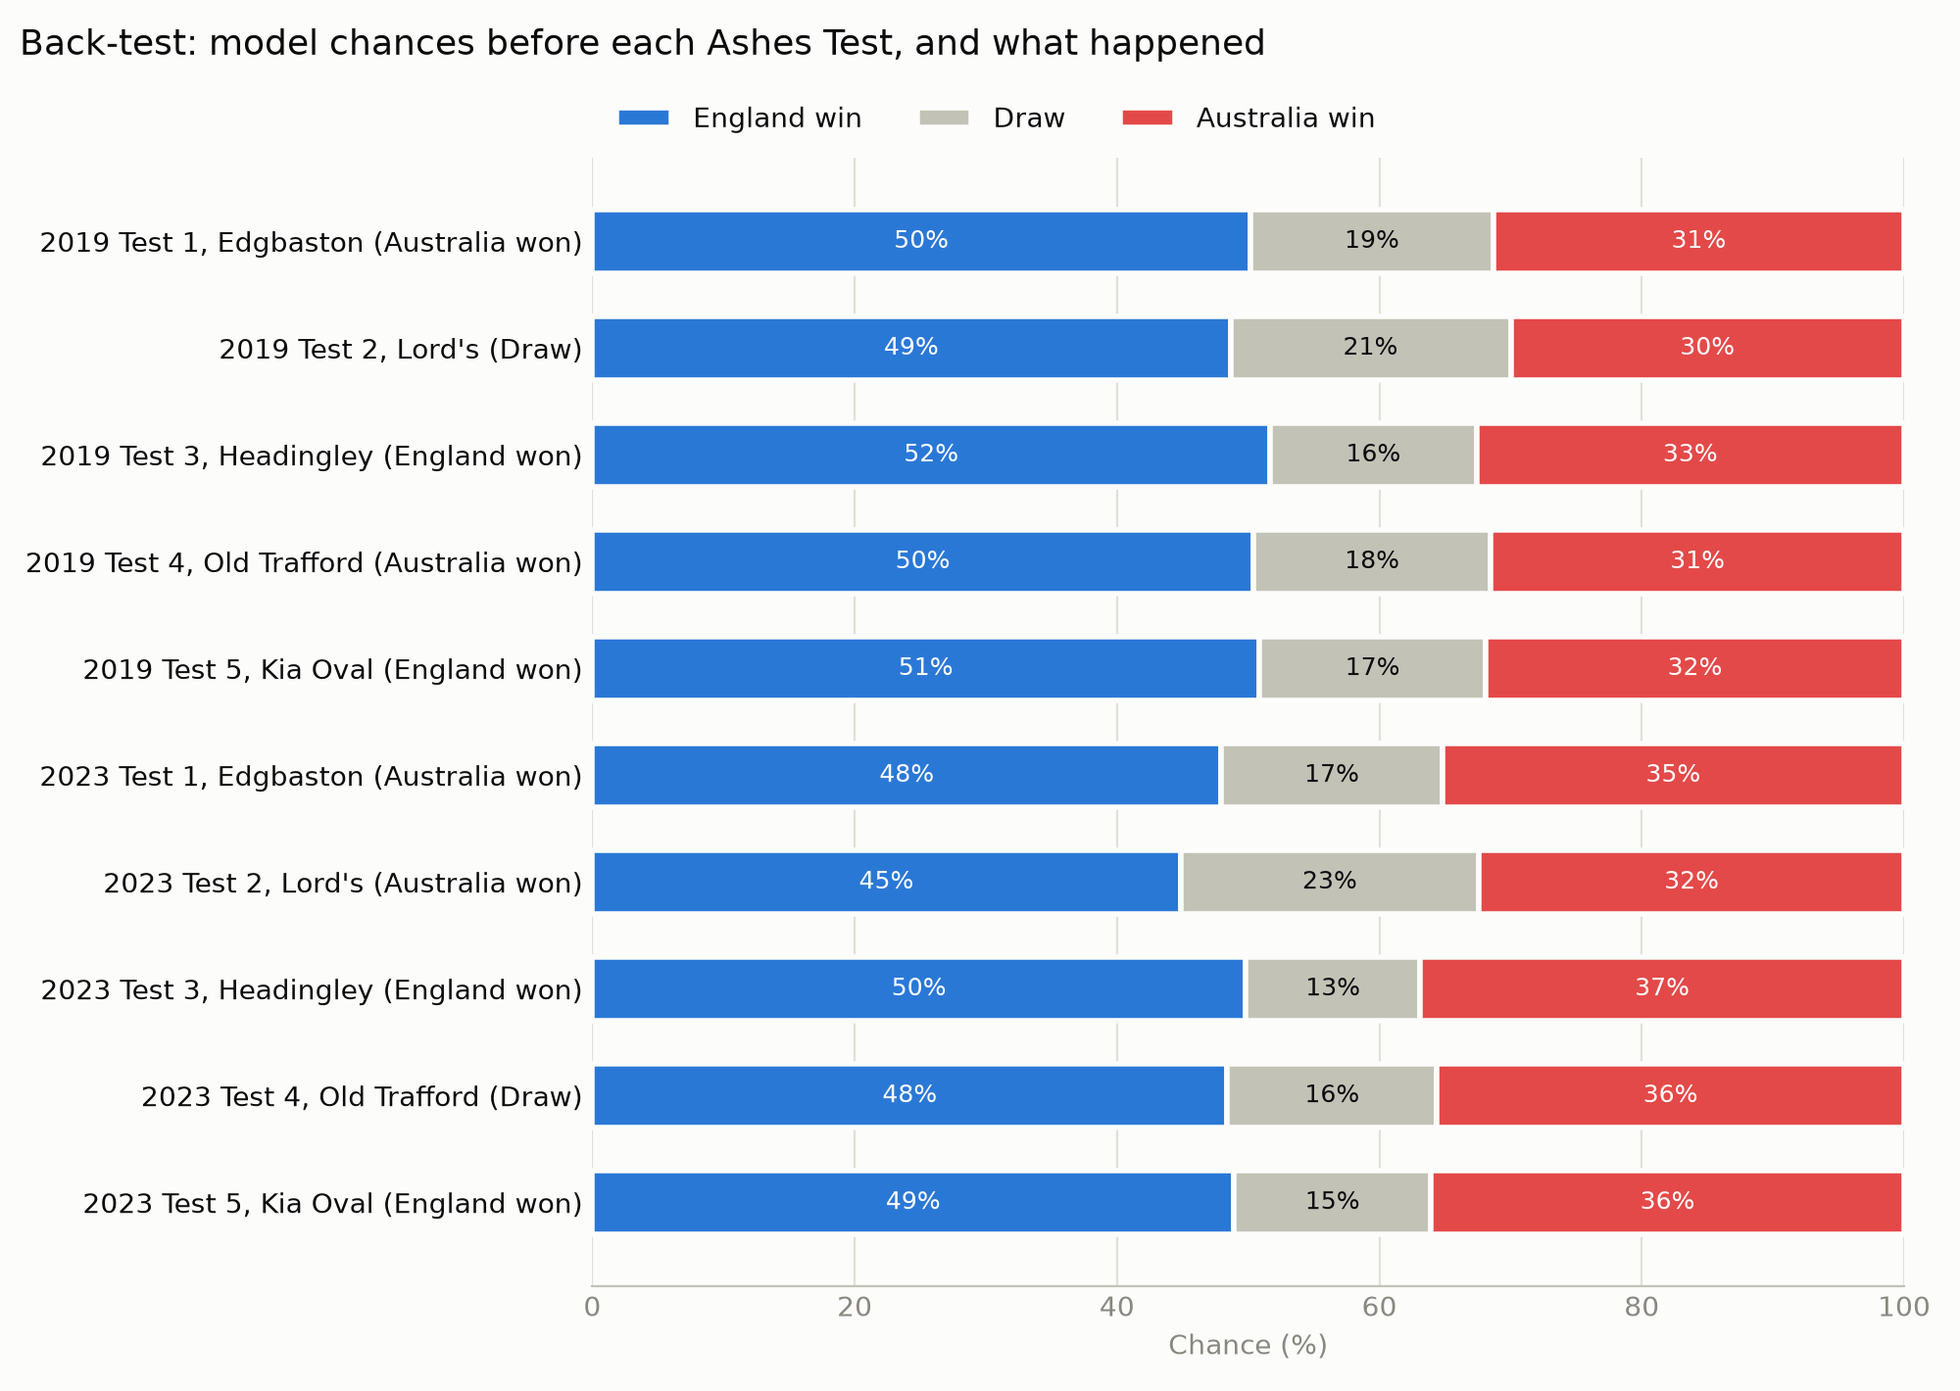
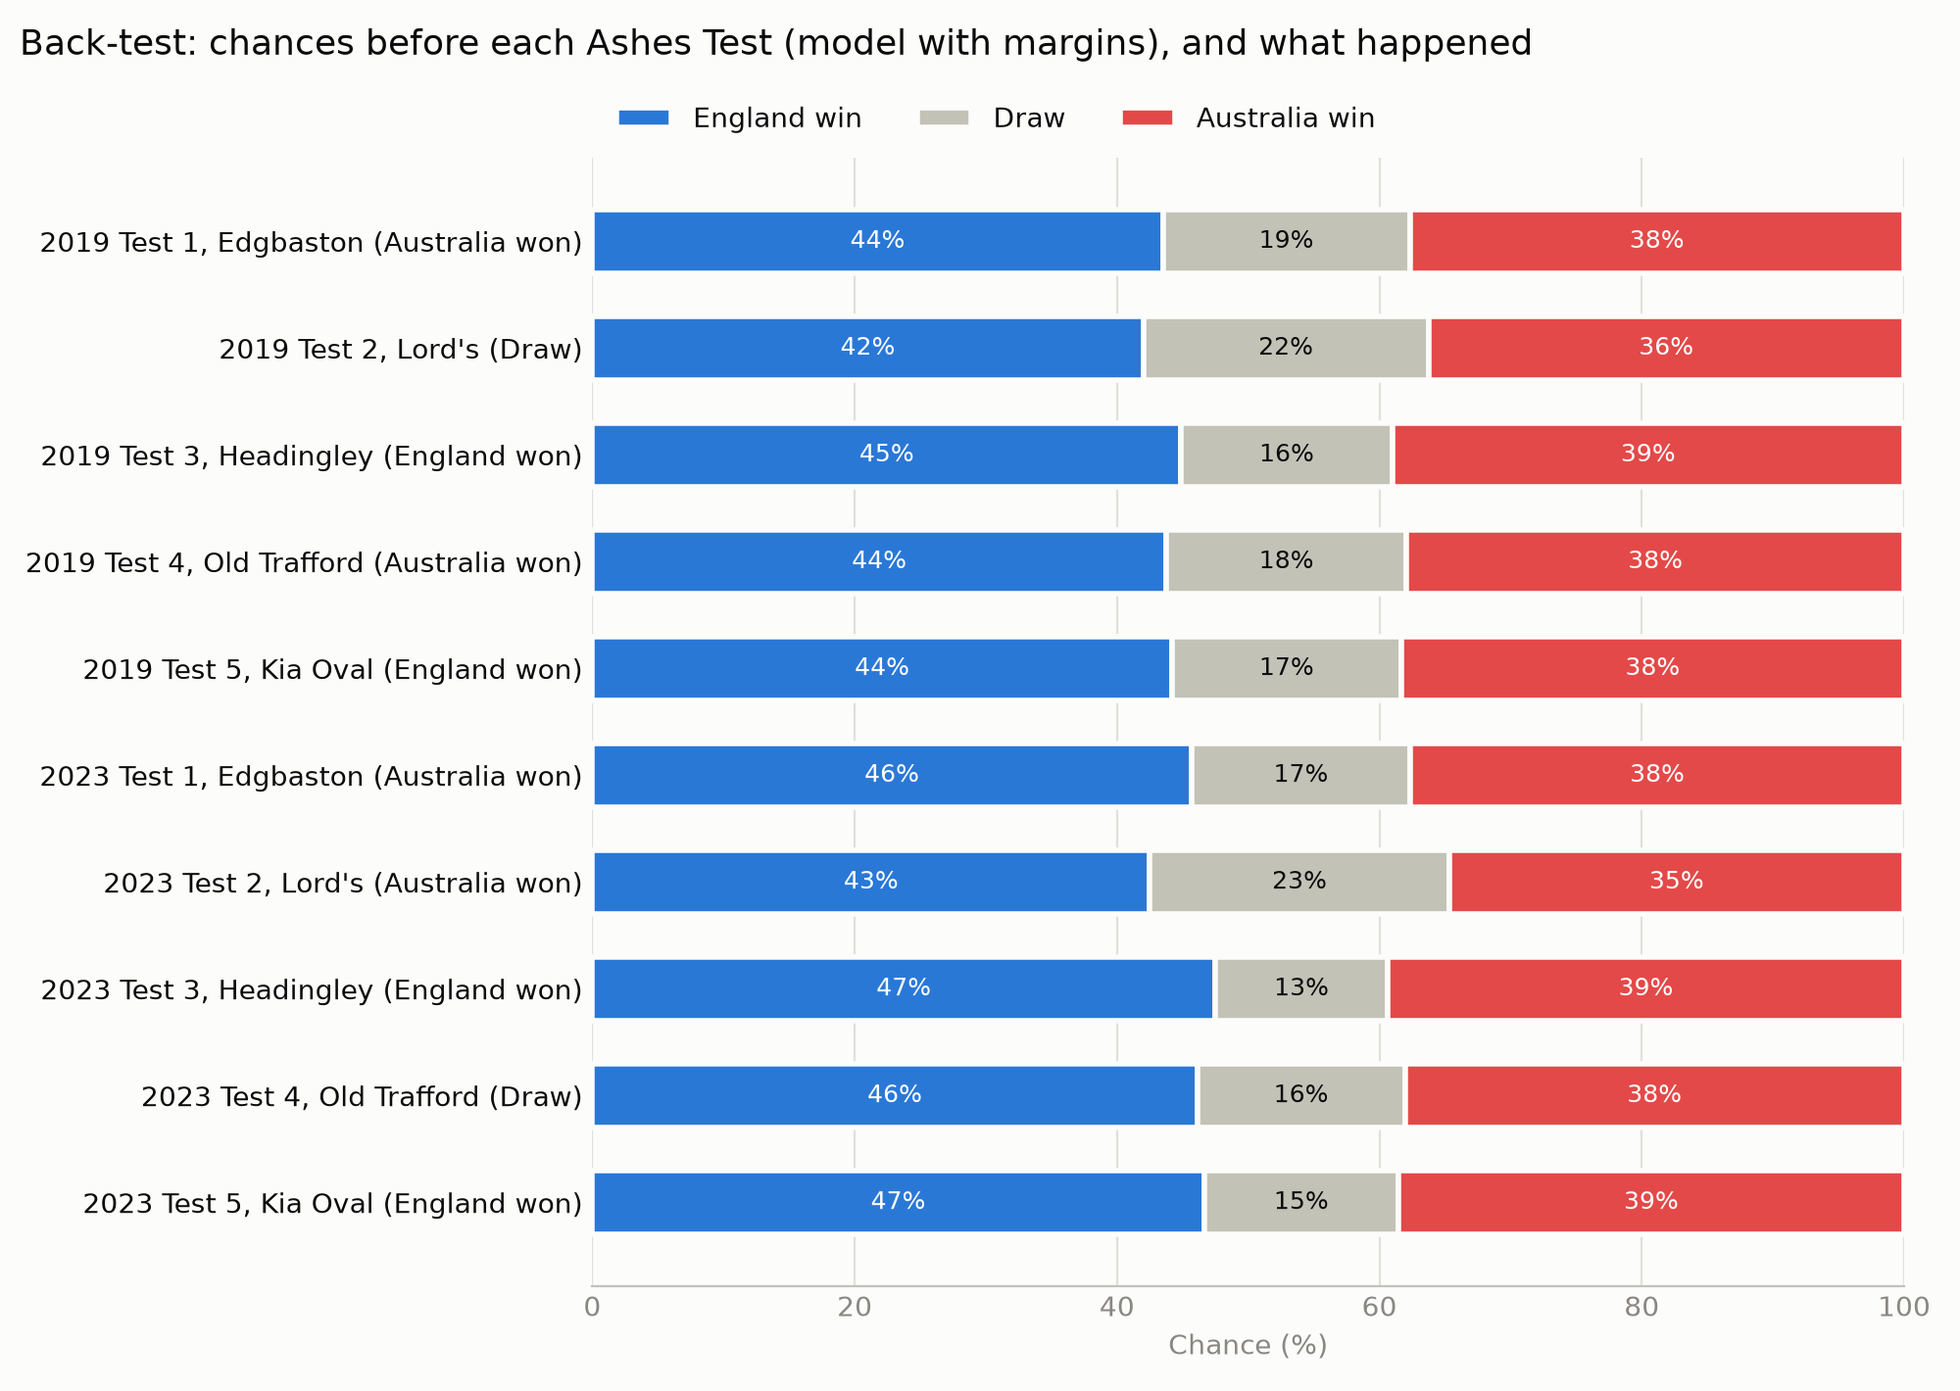
Add winning margins to the model, with innings wins counted fully

diff --git a/tests/test_28_margins.py b/tests/test_28_margins.py
@@ -18,18 +18,21 @@ def test_runs_per_wicket():
 
 
 def test_margin_in_wickets_converts_runs_and_keeps_wickets():
-    matches = pd.DataFrame({"margin_runs": [100.0, None, None], "margin_wkts": [None, 6.0, None]})
+    matches = pd.DataFrame({"margin_runs": [100.0, None, 50.0, None],
+                            "margin_wkts": [None, 6.0, None, None],
+                            "margin_innings": [None, None, 1.0, None]})
     result = margin_in_wickets(matches, rpw=25)
     assert result.iloc[0] == 4          # 100 runs at 25 runs per wicket
     assert result.iloc[1] == 6          # 6 wickets stays 6
-    assert np.isnan(result.iloc[2])     # a draw has no margin
+    assert result.iloc[2] == 12         # an innings and 50 runs: 2 wickets, plus 10 for the unused innings
+    assert np.isnan(result.iloc[3])     # a draw has no margin
 
 
 def test_model_table_adds_log_margin_only_when_asked(raw_dir):
     matches = ingest_folder(raw_dir)["matches"]
     assert "margin" not in build_model_table(matches, ALIASES).columns
     table = build_model_table(matches, ALIASES, rpw=6.0).set_index("match_id")
-    assert table.loc["3001", "margin"] == pytest.approx(np.log1p(12 / 6))   # innings and 12 runs = 2 wickets
+    assert table.loc["3001", "margin"] == pytest.approx(np.log1p(12 / 6 + 10))   # innings and 12 runs
     assert table.loc["3002", "margin"] == pytest.approx(np.log1p(9))        # won by 9 wickets
     assert np.isnan(table.loc["3003", "margin"])                             # draw
 
@@ -40,7 +43,7 @@ def test_model_data_records_each_win_and_who_won(raw_dir):
     # Tests in date order: 3001 England (team1) won, 3002 Australia (team2) won, 3003 drawn.
     assert data.margin_idx.tolist() == [0, 1]
     assert data.margin_sign.tolist() == [1.0, -1.0]
-    np.testing.assert_allclose(data.margin, [np.log1p(2), np.log1p(9)])
+    np.testing.assert_allclose(data.margin, [np.log1p(12), np.log1p(9)])
 
 
 def test_model_data_without_margins_has_none(raw_dir):

diff --git a/src/cricket/model_data.py b/src/cricket/model_data.py
@@ -29,8 +29,12 @@ def runs_per_wicket(innings):
 
 
 def margin_in_wickets(matches, rpw):
-    """Every win's margin in wickets: the wickets in hand, or the runs margin divided by runs per wicket."""
-    return (matches["margin_runs"] / rpw).fillna(matches["margin_wkts"])
+    """Every win's margin in wickets: the wickets in hand, or the runs margin divided by runs per wicket.
+
+    An innings win adds 10 wickets to its runs margin: the winner never needed its second innings.
+    """
+    innings_bonus = np.where(matches["margin_innings"].fillna(0) > 0, 10, 0)
+    return (matches["margin_runs"] / rpw + innings_bonus).fillna(matches["margin_wkts"])
 
 
 def build_model_table(matches, aliases, rpw=None):

diff --git a/README.md b/README.md
@@ -10,20 +10,20 @@ through to every series result.
 
 | Test | Ground | Dates | England win | Draw | Australia win |
 | --- | --- | --- | --- | --- | --- |
-| 1 | Trent Bridge | 18–22 June | 47% | 10% | 43% |
-| 2 | Lord's | 30 June–4 July | 44% | 15% | 40% |
-| 3 | Edgbaston | 8–12 July | 46% | 11% | 42% |
-| 4 | Utilita Bowl | 21–25 July | 44% | 16% | 40% |
-| 5 | Kia Oval | 29 July–2 August | 47% | 10% | 43% |
+| 1 | Trent Bridge | 18–22 June | 46% | 10% | 44% |
+| 2 | Lord's | 30 June–4 July | 43% | 15% | 41% |
+| 3 | Edgbaston | 8–12 July | 46% | 11% | 44% |
+| 4 | Utilita Bowl | 21–25 July | 43% | 15% | 41% |
+| 5 | Kia Oval | 29 July–2 August | 46% | 10% | 44% |
 
 | Series | England win | Drawn series | Australia win | Australia retain the urn |
 | --- | --- | --- | --- | --- |
-| Model | 47% | 13% | 40% | 53% |
-| Model, if the Tests were independent | 47% | 14% | 39% | 53% |
+| Model | 45% | 13% | 42% | 55% |
+| Model, if the Tests were independent | 45% | 14% | 41% | 55% |
 | My own forecast, written before any modelling | 42% | 16% | 42% | 58% |
 
-England are slight favourites at home because the model's home advantage (0.63) is a little larger than the gap
-between the teams (Australia 1.33, England 0.78 on the model's scale).
+England are slight favourites at home because the model's home advantage (0.62) is a little larger than the gap
+between the teams (Australia 1.35, England 0.77 on the model's scale).
 
 ## The question and the approach
 
@@ -33,8 +33,9 @@ between the teams (Australia 1.33, England 0.78 on the model's scale).
    deliveries. It holds for all 729 wins with a recorded margin.
 3. **Profile the five grounds** from their history: draw rates, first-innings scores, overs bowled, the toss and how
    batters were dismissed.
-4. **Fit a Bayesian model** in PyMC with Hamiltonian Monte Carlo (NUTS).
-5. **Back-test it** on the 2019 and 2023 Ashes, using only Tests played before each series.
+4. **Fit a Bayesian model** in PyMC with Hamiltonian Monte Carlo (NUTS), learning from both the result and the
+   winning margin of every Test.
+5. **Back-test it** on the 2019 and 2023 Ashes, using only Tests played before each series, with and without margins.
 6. **Forecast each 2027 Test and the series**, and compare with a forecast written down before any modelling.
 
 ## The model
@@ -48,20 +49,26 @@ $$P(\text{A loses}) = \sigma\left(-\tfrac{w}{2} - \eta\right), \qquad P(\text{A 
 
 $$\log w = \beta_0 + v_{\text{venue}} + \tau \cdot \frac{\text{year} - 2019}{10}$$
 
+For every win, the size of the win $m$ (in wickets) also depends on the winner's edge $\eta_{\text{winner}}$, through
+a normal distribution cut off at 0:
+
+$$\log(1 + m) \sim \text{Normal}^{+}\left(\mu_0 + \lambda \cdot \eta_{\text{winner}},\ \sigma_m\right)$$
+
 | Part | Choice |
 | --- | --- |
 | Team strength $s_{T,t}$ | A yearly random walk for each of 11 teams, centred each year so 0 is an average Test side |
 | Home advantage $h$ | One value for all teams. The home side is inferred from the data: the team playing at least 80% of the Tests at a place |
 | Draw band | A base width, a trend per decade since 2019, and a venue effect for each of 103 venues, partially pooled |
+| Winning margin $m$ | Wickets in hand, or runs divided by the average runs per wicket (32.6). An innings win adds 10 wickets. |
 | Parameterisation | Non-centred, for the random walk and the venue effects |
-| Data | 898 Tests from 2001 to 2026 (the one-off ICC World XI Test is excluded) |
+| Data | 898 Tests from 2001 to 2026, 728 of them wins with a recorded margin (the one-off ICC World XI Test is excluded) |
 
 ## Does the fit work?
 
 | Check | Result | Target |
 | --- | --- | --- |
-| Worst R-hat | 1.002 | below 1.01 |
-| Smallest effective sample size | 718 | above 400 |
+| Worst R-hat | 1.006 | below 1.01 |
+| Smallest effective sample size | 1,001 | above 400 |
 | Divergences | 0 | 0 |
 
 Four chains of 1,000 warm-up and 1,000 kept draws, with a target acceptance of 0.95. R-hat and effective sample size are
@@ -70,16 +77,18 @@ answers. Full results are in [`figures/sampler_checks.csv`](figures/sampler_chec
 
 ## How good is it?
 
-I tested the model on the 2019 and 2023 Ashes, fitting it only on Tests played before each series began.
+I tested two versions of the model on the 2019 and 2023 Ashes, fitting each only on Tests played before the series
+began: one that sees only results, and one that also sees winning margins.
 
-| Average per Test (lower is better) | Model | Past results | Equal thirds |
-| --- | --- | --- | --- |
-| Log loss | 1.06 | 1.10 | 1.10 |
-| Brier score | 0.65 | 0.67 | 0.67 |
+| Average per Test (lower is better) | With margins | Results only | Past results | Equal thirds |
+| --- | --- | --- | --- | --- |
+| Log loss | 1.048 | 1.061 | 1.097 | 1.099 |
+| Brier score | 0.637 | 0.647 | 0.670 | 0.667 |
 
-The model beat both simple forecasts in both series, but by a small margin over only ten Tests. It favoured
-England in every Test, and both series finished 2-2. Details are in
-[`figures/backtest_tests.csv`](figures/backtest_tests.csv) and [`DECISIONS.md`](DECISIONS.md).
+The version with margins did best in both series. Before the 2019 and 2023 Ashes it gave England about an even chance of
+winning the series (48% and 50%), where the results-only version gave 60% and 54%; both series finished 2-2. Ten
+Tests is still a small sample. Details are in [`figures/backtest_tests.csv`](figures/backtest_tests.csv) and
+[`DECISIONS.md`](DECISIONS.md).
 
 ![Back-test: model chances before each Ashes Test, and what happened](figures/backtest.png)
 
@@ -87,17 +96,23 @@ England in every Test, and both series finished 2-2. Details are in
 
 | Parameter | Mean | 90% interval |
 | --- | --- | --- |
-| Home advantage | 0.63 | 0.51 to 0.75 |
-| Draw trend per decade | −0.52 | −0.71 to −0.34 |
-| Australia strength, 2026 | 1.33 | 0.94 to 1.76 |
-| England strength, 2026 | 0.78 | 0.40 to 1.16 |
+| Home advantage | 0.62 | 0.51 to 0.73 |
+| Draw trend per decade | −0.53 | −0.71 to −0.35 |
+| Margin slope $\lambda$ | 0.17 | 0.14 to 0.21 |
+| Yearly step in team strength | 0.15 | 0.08 to 0.23 |
+| Australia strength, 2026 | 1.35 | 0.89 to 1.81 |
+| England strength, 2026 | 0.77 | 0.34 to 1.21 |
 
+- **Stronger winners win by more.** The margin slope is clearly above 0, so every win now says how big the gap
+  between the teams was, not only who won.
+- **Team strength now moves.** With margins, the model allows almost twice as much change each year. England's peak
+  around 2010–11 and Australia's dip around 2010–13 both show, where the results-only model was almost flat.
 - **Draws are becoming much rarer.** The draw band narrows by about 40% per decade. At the five grounds, 20% of Tests
   were drawn overall but 13% since 2019.
 - **Grounds differ beyond their weather.** Lord's draws more than any other well-sampled ground despite London being
   one of the drier fixtures; Trent Bridge, the wettest, draws among the least.
 - **Partial pooling at work.** The Utilita Bowl has a raw draw rate of 43% from only seven Tests. The model rates it
-  about the same as Lord's, with a 90% interval about 40% wider.
+  about the same as Lord's, with a 90% interval about 50% wider.
 
 ![Team strength over time](figures/team_strength.png)
 
@@ -111,9 +126,10 @@ England in every Test, and both series finished 2-2. Details are in
 
 ## Limitations
 
-- **Little information per Test.** The model sees only win, draw or loss, so a crushing win counts the same as a narrow
-  one. With about ten Tests per team per year, yearly strengths are heavily smoothed and the strength chart is almost
-  flat across 25 years.
+- **Still smoothed.** Strengths change from year to year now, but with about ten Tests per team per year they are still
+  smoothed. Australia's 4-1 win in 2025-26 barely shows.
+- **A simple margin rule.** Converting runs to wickets at one average rate, and adding 10 wickets for an innings win,
+  is a judgement, not a measured fact.
 - **Teams, not players.** Squads, injuries and workloads between back-to-back Tests are collected and validated in
   `data/manual/` but not yet used by the model.
 - **One home advantage for every team.**
@@ -123,7 +139,7 @@ England in every Test, and both series finished 2-2. Details are in
 
 ## Next steps
 
-1. Use the margin of victory, then ball-by-ball runs and wickets, so the model can follow real changes in form.
+1. Use ball-by-ball runs and wickets, so the model can follow changes in form within a season.
 2. Back-test on every year of Tests, not only two Ashes series, to give hundreds of scored forecasts.
 3. Build player-level strengths from the expected XIs, with availability per Test and a cover plan for replacements.
 
@@ -133,7 +149,7 @@ Requires [uv](https://docs.astral.sh/uv/).
 
 ```bash
 uv sync
-uv run pytest                                      # 158 tests
+uv run pytest                                      # 168 tests
 ```
 
 Download the **Test matches (JSON)** and the **People register** from [Cricsheet](https://cricsheet.org/downloads/).
@@ -146,8 +162,9 @@ uv run python -m cricket.manual_data               # validate squads, availabili
 uv run python -m cricket.cover_plan                # validate the replacement plan
 uv run python -m cricket.grounds                   # ground profiles and charts
 uv run python -m cricket.grounds --since 2019-01-01
-uv run python -m cricket.backtest --tune 2000      # back-test on the 2019 and 2023 Ashes
+uv run python -m cricket.backtest --tune 2000 --draws 2000   # back-test both versions
 uv run python -m cricket.forecast                  # fit the model and forecast 2027
+uv run python -m cricket.forecast --results-only   # the same without winning margins
 ```
 
 ## Project layout
@@ -159,15 +176,15 @@ uv run python -m cricket.forecast                  # fit the model and forecast 
 | `src/cricket/manual_data.py`, `cover_plan.py` | Validation of squads, availability, fixtures, venues, weather and the cover plan |
 | `src/cricket/find_ids.py`, `fill_ids.py` | Helpers for matching players to Cricsheet IDs |
 | `src/cricket/grounds.py`, `charts.py` | Ground profiles and charts |
-| `src/cricket/model_data.py` | Prepares the model inputs, including inferring the home side |
+| `src/cricket/model_data.py` | Prepares the model inputs, including the home side and winning margins |
 | `src/cricket/bayes_model.py` | The PyMC model |
 | `src/cricket/diagnostics.py` | R-hat and effective sample size |
 | `src/cricket/predict.py` | Test and series forecasts from posterior draws |
-| `src/cricket/backtest.py` | Forecasts the 2019 and 2023 Ashes using only earlier Tests, and scores the forecasts |
+| `src/cricket/backtest.py` | Forecasts the 2019 and 2023 Ashes using only earlier Tests, and scores both versions |
 | `src/cricket/forecast.py` | Fits the model and produces the forecast |
 | `data/manual/` | Squads, availability, cover plan, fixtures, venues, climate and my own forecast |
 | `figures/` | Charts and results tables |
-| `tests/` | 158 tests |
+| `tests/` | 168 tests |
 | [`DECISIONS.md`](DECISIONS.md) | Every modelling and data decision, with reasons |
 
 ## Data sources

diff --git a/DECISIONS.md b/DECISIONS.md
@@ -391,3 +391,54 @@ Draws were partly right. Lord's had the highest draw chance in both series, and 
 The forecasts barely move from one Test to the next, or from 2019 to 2023. That is the same weakness as the flat
 team strengths: win, draw or loss alone carries too little information. Adding the margin of victory is the next
 step, followed by this back-test again to see whether the edge grows.
+
+---
+
+## Adding the margin of victory
+
+## 2026-11-10: One scale for every winning margin
+Wins are recorded in runs or in wickets. I convert both to wickets: a wickets margin stays as it is, and a runs
+margin is divided by the average runs per wicket across all Test innings (32.6). An innings win adds 10 wickets,
+because the winner never needed its second innings. In the back-test the average uses only Tests before each series.
+
+## 2026-11-10: The log of the margin
+The model uses log(1 + margin in wickets). The difference between a 1-wicket and a 5-wicket win says a lot about two
+teams; the difference between a 400-run and a 500-run win says very little. The log keeps close results apart and
+squeezes the biggest wins together, so a few thrashings cannot dominate the fit.
+
+## 2026-11-10: Margins share the team strengths, through a truncated normal
+The result part of the model is unchanged. A second part says the size of each win follows a normal distribution
+whose mean grows with the winner's edge (strength gap plus home advantage), cut off at 0. The result already says
+who won, so cutting off at 0 means the margin adds only how much, without counting the win twice. The slope is
+forced to be positive, so a stronger winner is expected to win by more.
+
+## 2026-11-10: Margins as an option, tested side by side
+I kept the results-only model and added margins as a second version. The back-test fits both on the same Tests and
+scores both, so the comparison is fair. I chose which version produces the 2027 forecast from the back-test, not from
+whether the new forecast looked better.
+
+## 2026-11-10: Innings wins, a first attempt and a fix
+My first version counted an innings win by its runs margin alone, so "an innings and 12 runs" looked like one of the
+narrowest wins in the data. The margin slope came out at 0.03, almost no link between strength and the size of a
+win, and the back-test barely moved (log loss 1.059 against 1.061). Innings wins are what strong sides inflict on weak
+ones, so the most one-sided Tests were being recorded as close games. Adding 10 wickets for an innings win, to match
+the rule for wins by wickets, raised the slope to 0.17 and gave a clear improvement in the back-test.
+
+## 2026-11-10: More draws for the back-test
+One back-test fit with margins had a worst R-hat of 1.012, just over the 1.01 target. Doubling the kept draws to 2,000
+per chain brought every fit to 1.002 or below, with no divergences.
+
+## 2026-11-10: Findings with margins
+The back-test favours margins in both series. Across the ten Tests the log loss was 1.048 with margins against 1.061
+for results only, 1.097 for past results and 1.099 for equal thirds; the Brier score was 0.637 against 0.647, 0.670
+and 0.667. Before each series the margin version gave England about an even chance (48% in 2019, 50% in 2023), where
+results only gave 60% and 54%. Both series finished 2-2.
+
+On all Tests to 2026, the margin slope is 0.17 (0.14 to 0.21), so stronger winners clearly win by more, and the
+yearly step in team strength rises from 0.08 to 0.15. The strength chart now shows England's peak around 2010-11 and
+Australia's dip around 2010-13, which the results-only model smoothed away. It still smooths sharp changes:
+Australia's 4-1 win in 2025-26 barely shows.
+
+I use the margin version for the 2027 forecast. England remain slight favourites, but by less: a series win 45%
+(down from 47%), Australia 42% and a drawn series 13%, so Australia retain the urn 55% of the time. Each Test is close
+to even, with England between 43% and 46%. That is now within three points of my own forecast for the series.
